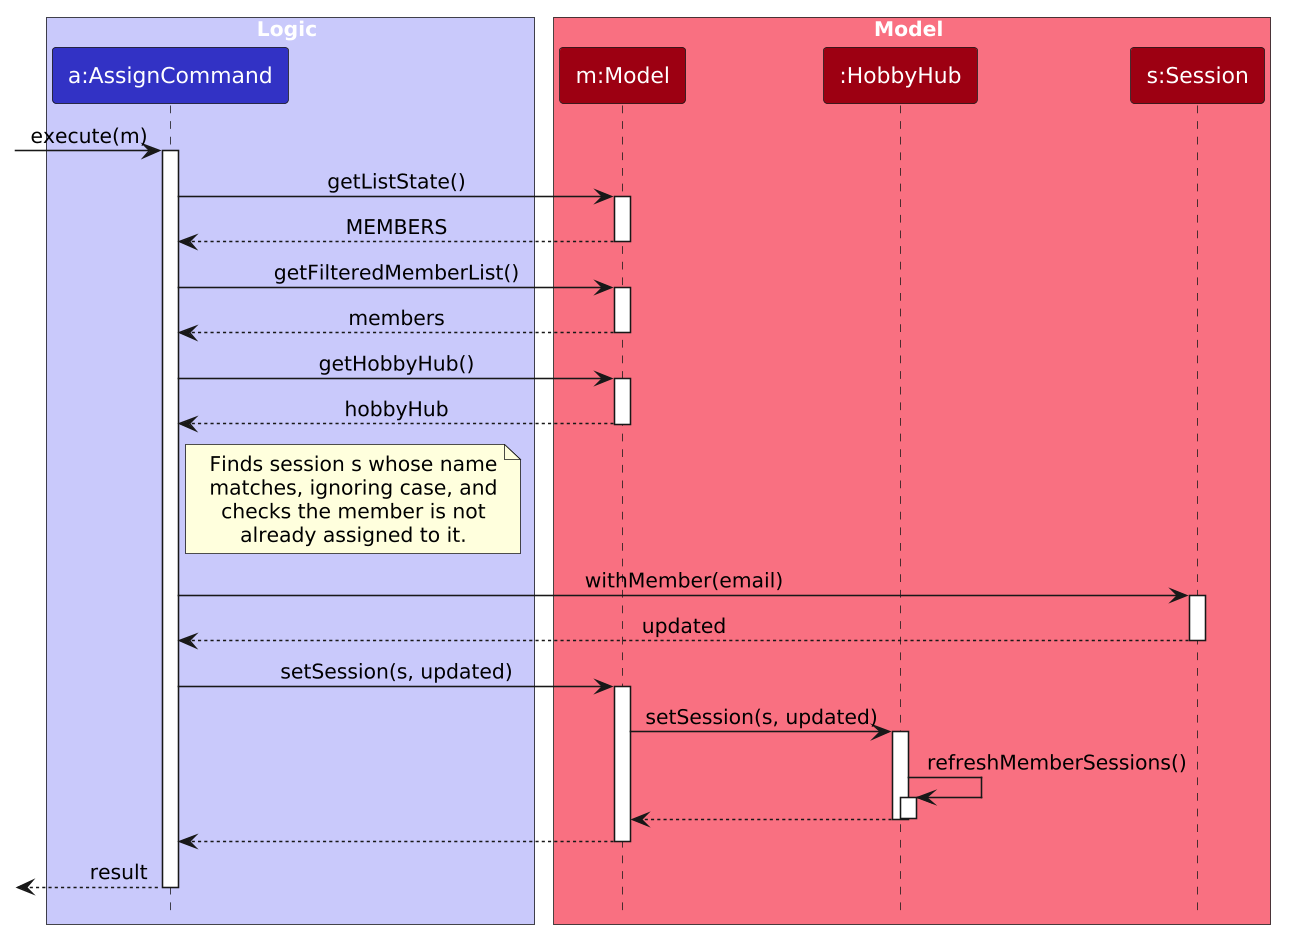
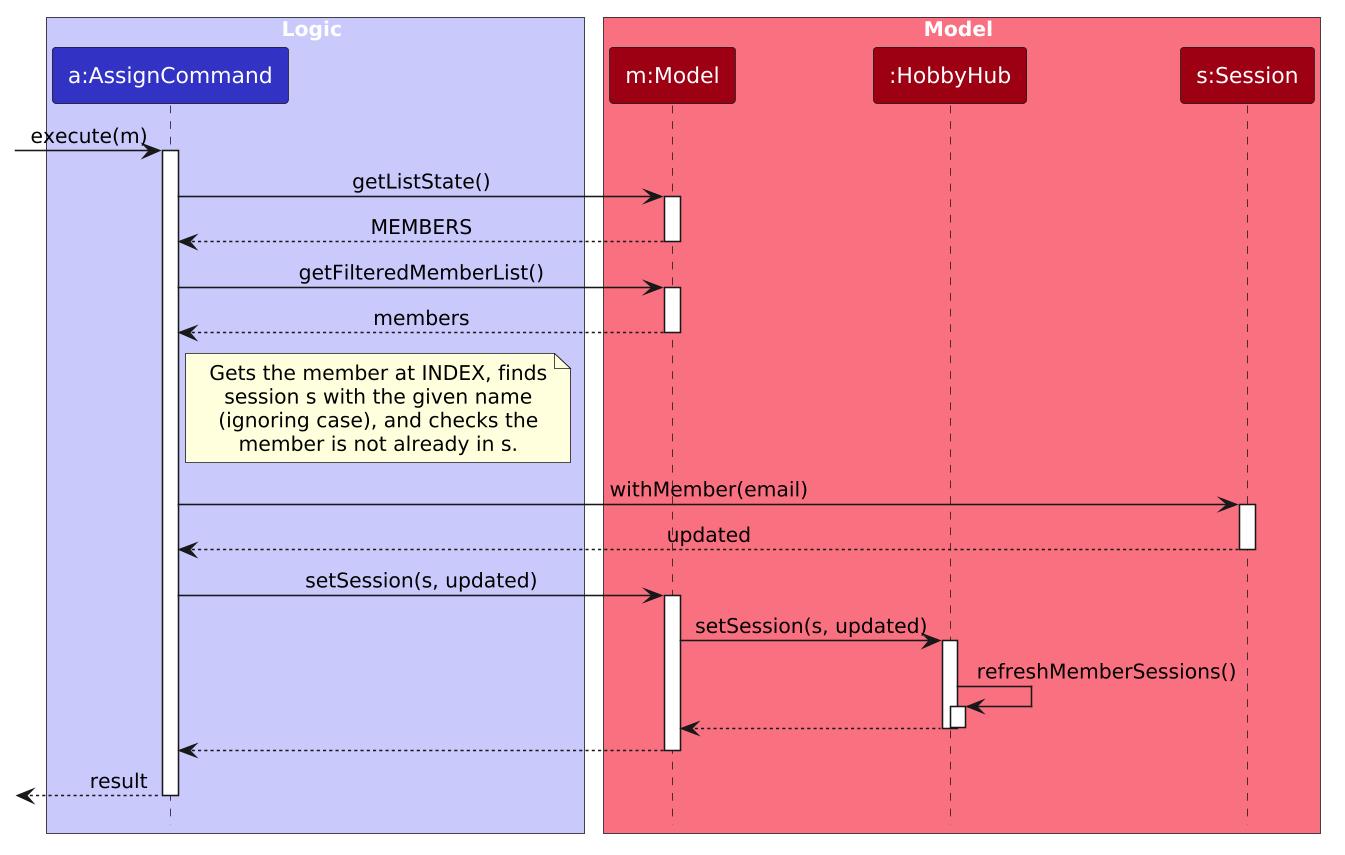
Simplify assign diagrams based on review

Changed region(s): [[0.0, 0.0, 0.9884, 1.0], [0.6795, 0.669, 0.7104, 0.6994]]

diff --git a/docs/DeveloperGuide.md b/docs/DeveloperGuide.md
@@ -236,8 +236,9 @@ A `Session` does not hold `Member` objects. It stores the `Email` of each assign
 Each `Member` in turn holds the list of sessions it is assigned to, which `HobbyHub` rebuilds from the session list
 whenever members or sessions change.
 
-The sequence diagram below shows how the `Logic` component parses and executes `assign 1 Weekend Chess Meetup`,
-and saves the result.
+The sequence diagram below shows how the `Logic` component parses and executes `assign 1 Weekend Chess Meetup`.
+After the command returns, `LogicManager` saves the data as described in the previous section, so saving is not
+shown again here.
 
 ![Interactions inside the Logic component for the `assign 1 Weekend Chess Meetup` command](images/AssignSequenceDiagram-Logic.png)
 
@@ -248,7 +249,8 @@ The next sequence diagram shows what `AssignCommand#execute` does inside the `Mo
 
 ![Interactions inside the Model component for the `assign 1 Weekend Chess Meetup` command](images/AssignSequenceDiagram-Model.png)
 
-The activity diagram below summarises the checks `assign` makes and what happens when each one fails.
+The activity diagram below summarises the overall flow of `assign`. The checks are the ones listed in the steps
+above; each failed check shows its own error message and leaves the data unchanged.
 
 <img src="images/AssignActivityDiagram.png" width="500" />
 
@@ -298,6 +300,8 @@ Because sessions refer to members by email, other member commands keep the links
   `HobbyHub#refreshMemberSessions()`. Because `Session` and `Member` are immutable, `assign` does not change the
   existing objects: it replaces the session with a new one that includes Alice's email, and `refreshMemberSessions()`
   replaces Alice with a new `Member` whose session list includes the new session.
+  For simplicity, the `HobbyHub`, `UniqueMemberList` and `UniqueSessionList` objects that hold these members and the
+  session are omitted.
 
   ![Objects after `assign 1 Weekend Chess Meetup`](images/AssignObjectDiagram.png)
 
